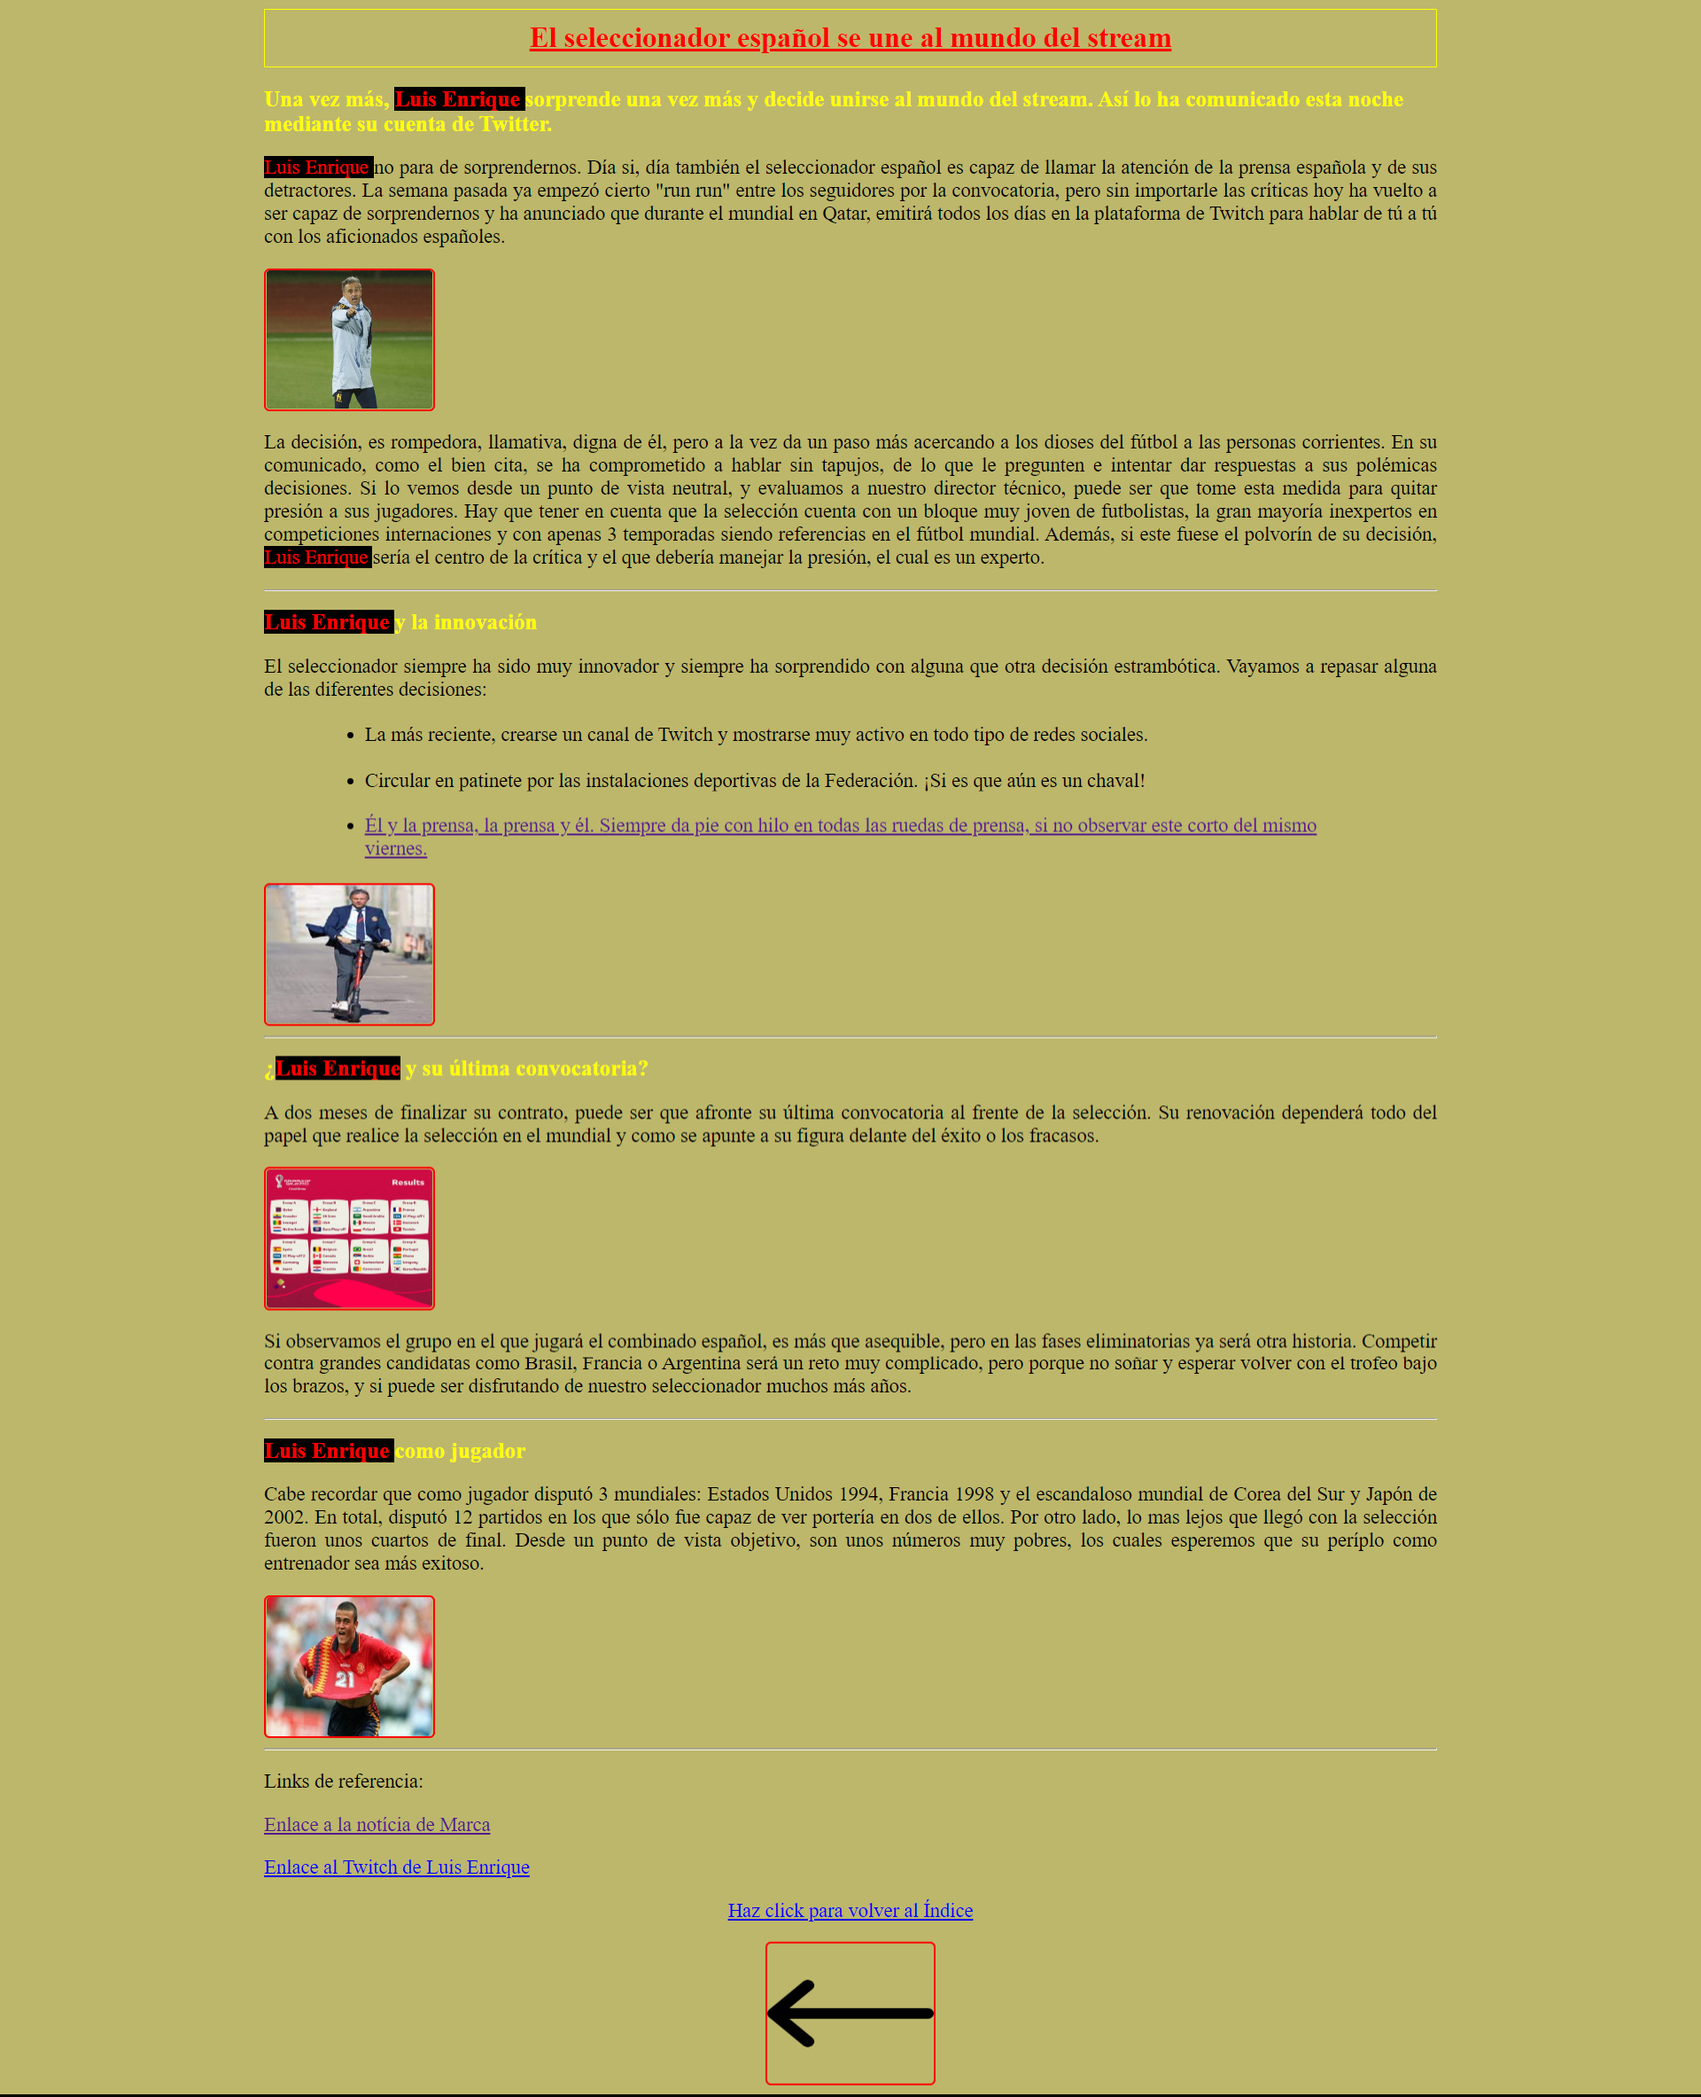
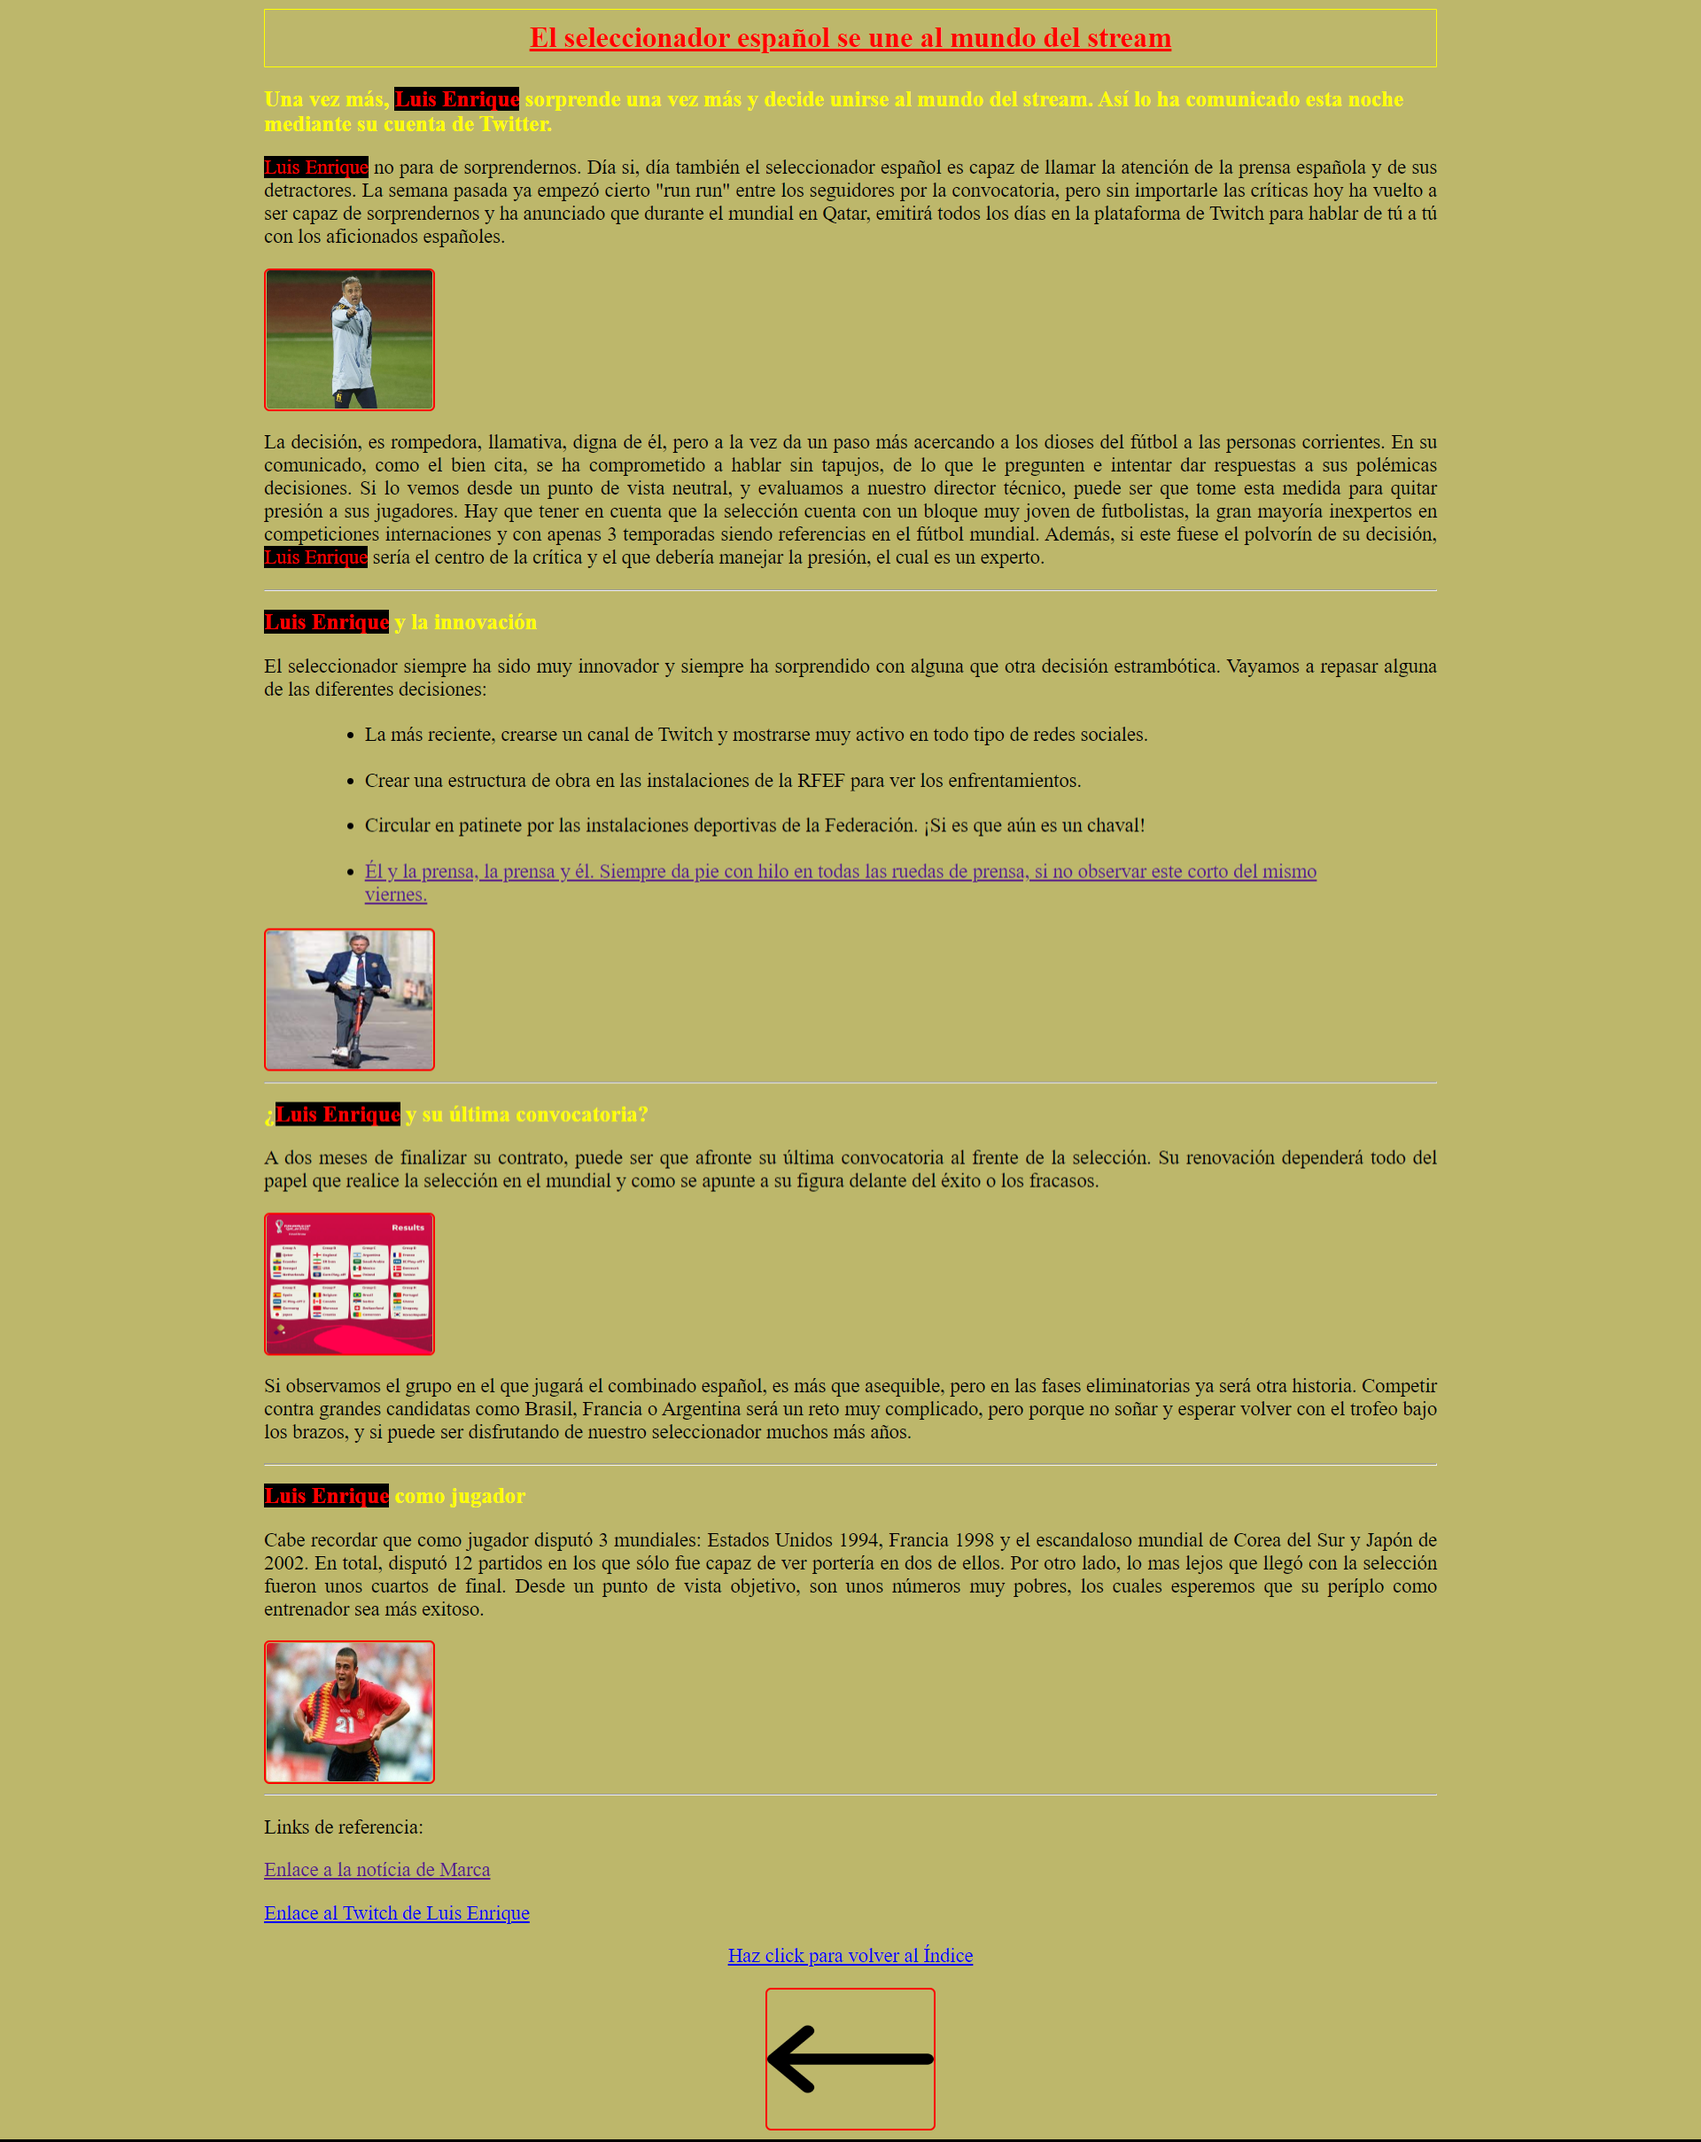
Add files via upload
Resubida final

Changed region(s): [[0.1562, 0.0, 0.8438, 0.8948], [0.4375, 0.8948, 0.5625, 1.0]]

diff --git a/index.html b/index.html
@@ -12,17 +12,18 @@
     <link rel="stylesheet" href="estilos.css">
     <title> Luis Enrique se hace streamer </title>
 </head>
-<body> 
+<body>
 <h1> El seleccionador español se une al mundo del stream</h1>
-<h2> Una vez más, <span> Luis Enrique </span> sorprende una vez más y decide unirse al mundo del stream. Así lo ha comunicado esta noche mediante su cuenta de Twitter.</h2>
-<p><span> Luis Enrique </span>no para de sorprendernos. Día si, día también el seleccionador español es capaz de llamar la atención de la prensa española y de sus detractores. La semana pasada ya empezó cierto "run run" entre los seguidores por la convocatoria, pero sin importarle las críticas hoy ha vuelto a ser capaz de sorprendernos y ha anunciado que durante el mundial en Qatar, emitirá todos los días en la plataforma de Twitch para hablar de tú a tú con los aficionados españoles.</p>
+<h2> Una vez más, <span>Luis Enrique</span> sorprende una vez más y decide unirse al mundo del stream. Así lo ha comunicado esta noche mediante su cuenta de Twitter.</h2>
+<p><span>Luis Enrique</span> no para de sorprendernos. Día si, día también el seleccionador español es capaz de llamar la atención de la prensa española y de sus detractores. La semana pasada ya empezó cierto "run run" entre los seguidores por la convocatoria, pero sin importarle las críticas hoy ha vuelto a ser capaz de sorprendernos y ha anunciado que durante el mundial en Qatar, emitirá todos los días en la plataforma de Twitch para hablar de tú a tú con los aficionados españoles.</p>
 <img src="img/luisenrique.jpeg" alt="Luis Enrique durante una convocatoria en el mes de febrero">
-<p> La decisión, es rompedora, llamativa, digna de él, pero a la vez da un paso más acercando a los dioses del fútbol a las personas corrientes. En su comunicado, como el bien cita, se ha comprometido a hablar sin tapujos, de lo que le pregunten e intentar dar respuestas a sus polémicas decisiones. Si lo vemos desde un punto de vista neutral, y evaluamos a nuestro director técnico, puede ser que tome esta medida para quitar presión a sus jugadores. Hay que tener en cuenta que la selección cuenta con un bloque muy joven de futbolistas, la gran mayoría inexpertos en competiciones internaciones y con apenas 3 temporadas siendo referencias en el fútbol mundial. Además, si este fuese el polvorín de su decisión, <span> Luis Enrique </span> sería el centro de la crítica y el que debería manejar la presión, el cual es un experto.</p>
+<p> La decisión, es rompedora, llamativa, digna de él, pero a la vez da un paso más acercando a los dioses del fútbol a las personas corrientes. En su comunicado, como el bien cita, se ha comprometido a hablar sin tapujos, de lo que le pregunten e intentar dar respuestas a sus polémicas decisiones. Si lo vemos desde un punto de vista neutral, y evaluamos a nuestro director técnico, puede ser que tome esta medida para quitar presión a sus jugadores. Hay que tener en cuenta que la selección cuenta con un bloque muy joven de futbolistas, la gran mayoría inexpertos en competiciones internaciones y con apenas 3 temporadas siendo referencias en el fútbol mundial. Además, si este fuese el polvorín de su decisión, <span>Luis Enrique</span> sería el centro de la crítica y el que debería manejar la presión, el cual es un experto.</p>
 <hr>
-<h2> <span>Luis Enrique </span> y la innovación </h2>
+<h2> <span>Luis Enrique</span> y la innovación </h2>
 <p> El seleccionador siempre ha sido muy innovador y siempre ha sorprendido con alguna que otra decisión estrambótica. Vayamos a repasar alguna de las diferentes decisiones:</p>
 <ul>
     <li>La más reciente, crearse un canal de Twitch y mostrarse muy activo en todo tipo de redes sociales.</li>
+    <li>Crear una estructura de obra en las instalaciones de la RFEF para ver los enfrentamientos.</li>
     <li>Circular en patinete por las instalaciones deportivas de la Federación. ¡Si es que aún es un chaval!</li>
     <li><a href="https://www.youtube.com/watch?v=p05w3B9KUAk&ab_channel=DiarioAS">Él y la prensa, la prensa y él. Siempre da pie con hilo en todas las ruedas de prensa, si no observar este corto del mismo viernes.</a></li>
 </ul>
@@ -33,7 +34,7 @@
 <img src="img/16488338662007.jpg" alt="Los enfrentamientos de España duranete la fase de grupos">
 <p>Si observamos el grupo en el que jugará el combinado español, es más que asequible, pero en las fases eliminatorias ya será otra historia. Competir contra grandes candidatas como Brasil, Francia o Argentina será un reto muy complicado, pero porque no soñar y esperar volver con el trofeo bajo los brazos, y si puede ser disfrutando de nuestro seleccionador muchos más años.</p>
 <hr>
-<h2><span>Luis Enrique  </span>como jugador</h2>
+<h2><span>Luis Enrique</span> como jugador</h2>
 <p>Cabe recordar que como jugador disputó 3 mundiales: Estados Unidos 1994, Francia 1998 y el escandaloso mundial de Corea del Sur y Japón de 2002. En total, disputó 12 partidos en los que sólo fue capaz de ver portería en dos de ellos. Por otro lado, lo mas lejos que llegó con la selección fueron unos cuartos de final. Desde un punto de vista objetivo, son unos números muy pobres, los cuales esperemos que su períplo como entrenador sea más exitoso.</p>
 <img src="img/luis_enrique_festeja_un_gol_con_espana.jpg" alt="Luis Enrique celebrando un gol en el mundial de Francia 1998">
 <hr>
@@ -46,9 +47,7 @@
 <center>
 <p> Haz click para volver al Índice </p>
 <a href="index.html"</a>
-<img src="img/545680.png" width="50" height="50">
-</body>
+<img src="img/545680.png" width="15" height="15">
 </center> 
-
 </body>
 </html>
